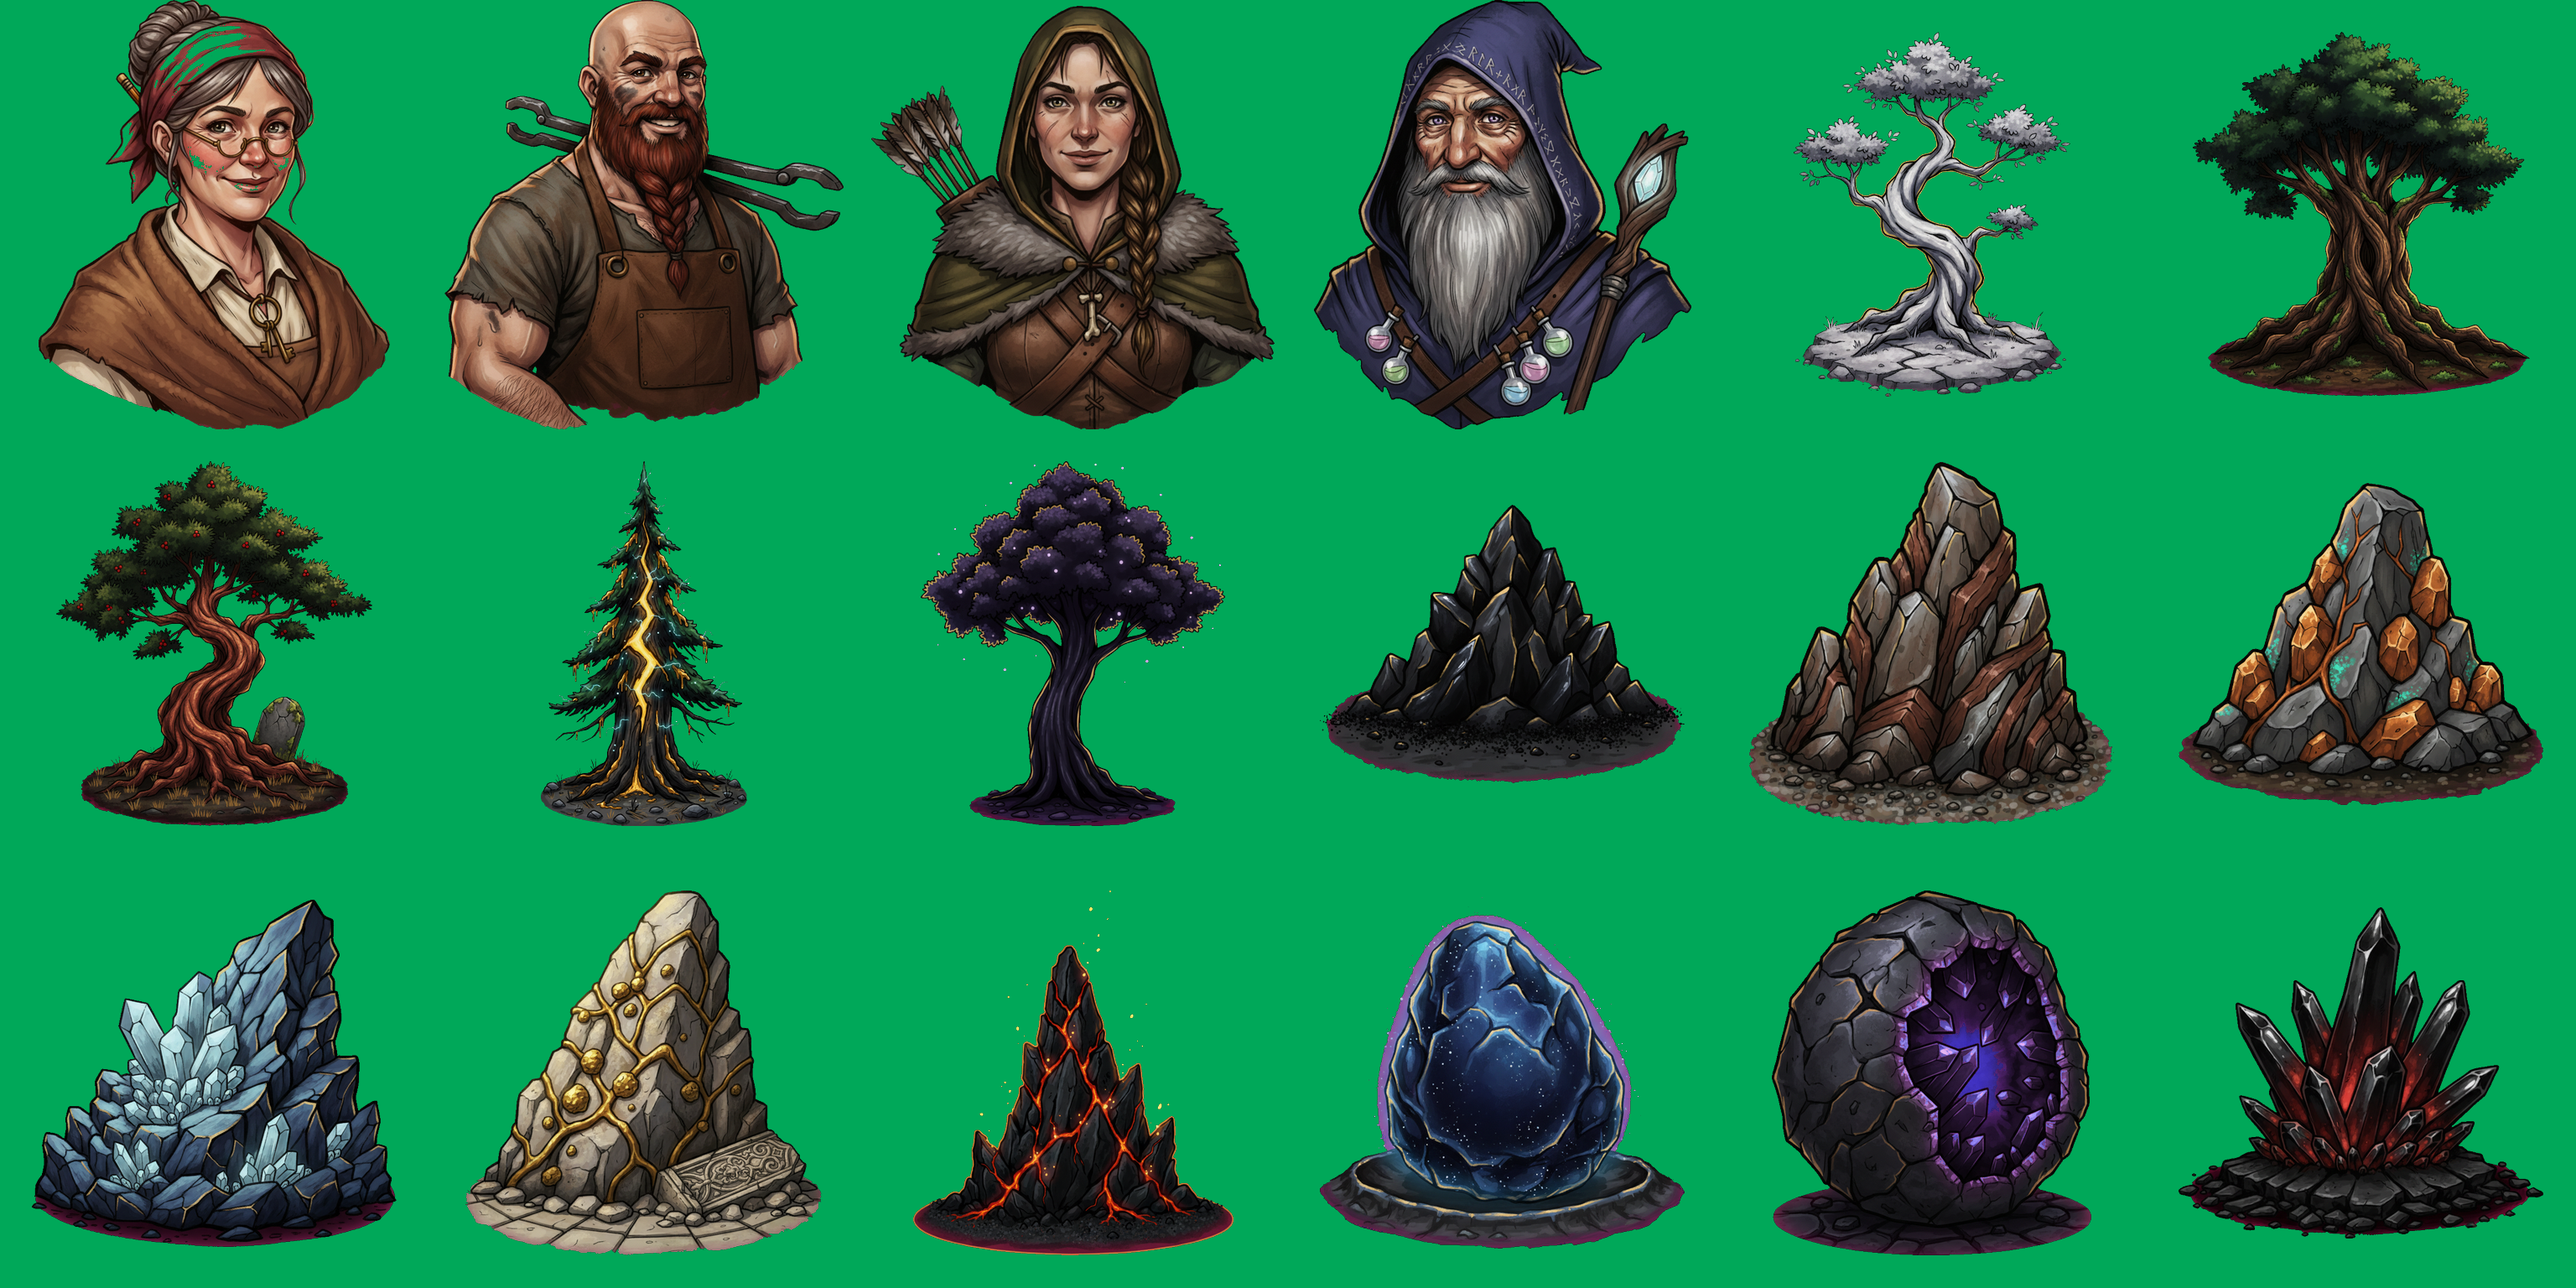
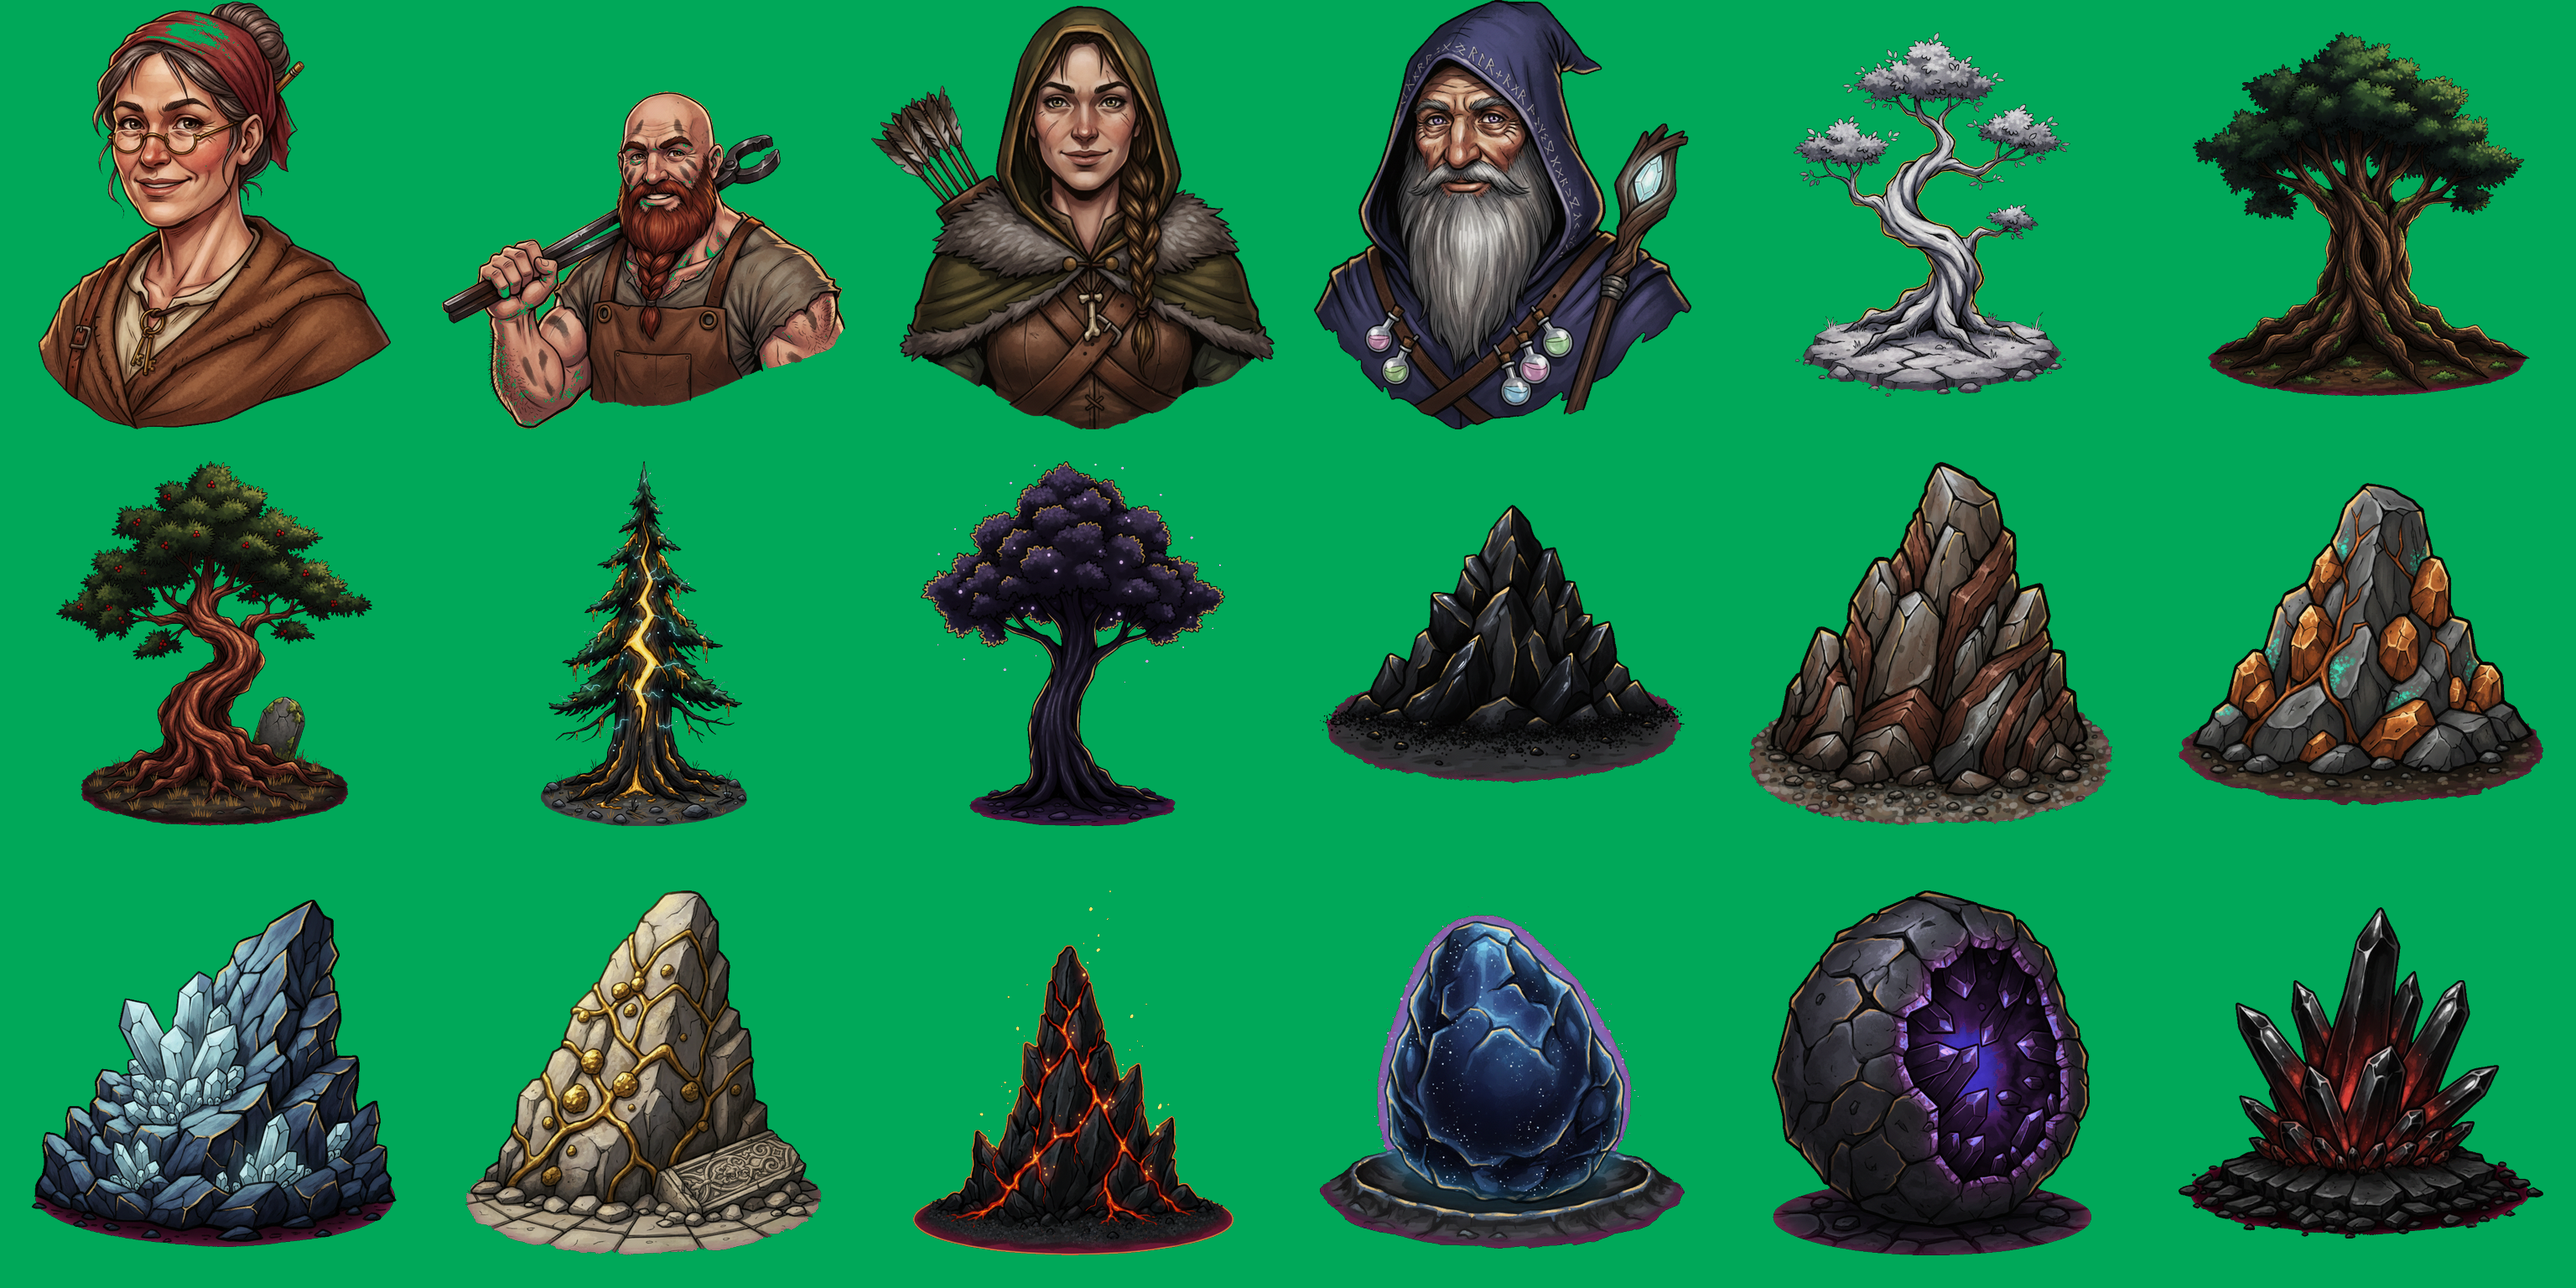
fix(npc): clean general_store face coloring and make blacksmith hold tongs with his hand

Changed region(s): [[0.0, 0.0, 0.3438, 0.3438]]

diff --git a/pipeline/scripts/generate_art_batch.py b/pipeline/scripts/generate_art_batch.py
@@ -100,11 +100,14 @@ ITEMS = {
             "Clothes are worn and practical: no shiny armour, no rust, nothing dark or corrupted."
         ),
         "desc": (
-            "Berta of the General Store. Woman in her fifties, very warm and friendly welcoming smile, kind sparkling eyes looking directly at the viewer/screen, rosy cheeks, "
-            "grey-streaked chestnut hair tied in a loose bun under a faded red headscarf. Small brass spectacles perched on her nose. "
+            "Berta of the General Store. Woman in her fifties, very warm and friendly welcoming smile, kind friendly eyes looking directly at the viewer/screen. "
+            "Smooth natural weathered medieval skin tones, completely solid and fully painted skin with no white specks, no glitter, and no unpainted spots. "
+            "Grey-streaked chestnut hair tied in a loose bun under a solid faded red cloth headscarf. Small circular brass spectacles perched neatly on her nose. "
             "Wearing a practical cream linen blouse, a coarse brown wool shawl draped around her, a leather apron strap over one shoulder, "
             "a pencil tucked behind her ear, and a small ring of brass keys hanging at the collar. "
-            "Warm, friendly shopkeeper greeting the player. Warm weathered colours strictly: faded red, cream linen, brown wool, brass, natural skin tones. Bold inked outlines."
+            "Warm, friendly shopkeeper greeting the player warmly. "
+            "Warm weathered colours strictly: faded red cloth, cream linen, brown wool, brass metal, natural warm skin tones. "
+            "Bold crisp black inked outlines, clean smooth cel-shading, completely solid painted surfaces with NO white specks, NO uncolored patches, NO noise artifacts."
         )
     },
     "smith": {
@@ -122,8 +125,8 @@ ITEMS = {
             "Master Gorran the Blacksmith. Big bald man in his forties, hearty friendly smile, warm kind eyes looking directly into the camera / at the viewer, "
             "thick braided red-brown beard with a few singed hairs. "
             "Black soot smudges on his forehead and rugged cheeks, thick powerful neck. "
-            "Heavy leather apron over a sleeveless sweat-darkened coarse grey shirt, thick hairy muscular forearm visible at the bottom edge, "
-            "a pair of heavy iron blacksmith tongs resting casually over his shoulder. "
+            "Heavy leather apron over a sleeveless sweat-darkened coarse grey shirt. "
+            "His thick muscular, hairy, soot-stained arm and hand is raised to firmly grip and hold the heavy iron blacksmith tongs resting securely over his shoulder. "
             "Glow of the forge lighting him warm orange from below on one side. Welcoming master craftsman greeting the player warmly. "
             "Colours strictly: steel grey, leather brown, forge orange, natural ruddy skin tones. Bold inked outlines."
         )
